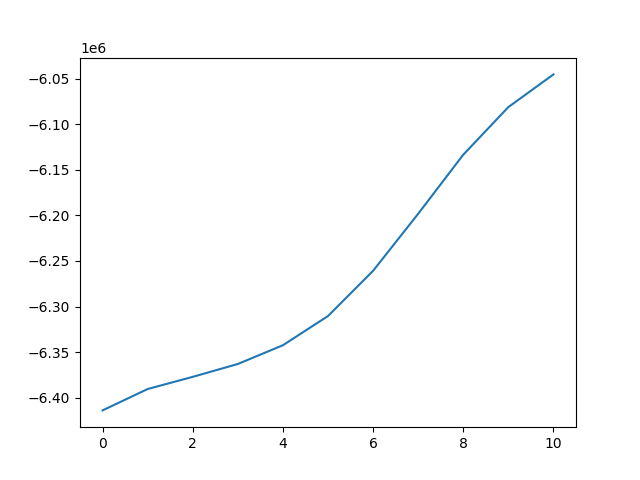
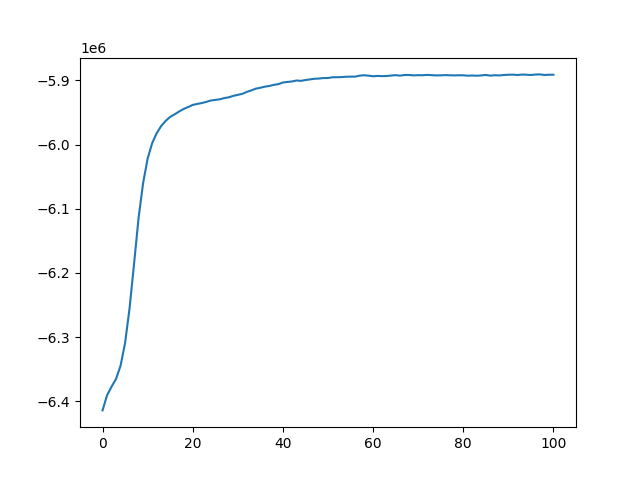
Uptaded figure with 100 iteration run

diff --git a/hw1/q5/LDA.py b/hw1/q5/LDA.py
@@ -4,6 +4,7 @@ import matplotlib.pyplot as plt
 
 from joint_log_lik import joint_log_lik
 from sample_topic_assignment import sample_topic_assignment
+from tqdm.auto import tqdm
 
 
 bagofwords = loadmat('bagofwords_nips.mat')
@@ -21,16 +22,6 @@ def log(s):
 
 def log_separator():
     log('*'*80)
-
-# Exploratory Work
-log_separator()
-log("WS")
-log(WS)
-log_separator()
-log("WO[0] = {}".format(WO[0]))
-
-log_separator()
-
 
 # This script outlines how you might create a MCMC sampler for the LDA model
 
@@ -82,11 +73,11 @@ topic_N = topic_counts.sum(axis=1)
 # times your sampler will iterate.
 alpha = np.ones(n_topics) #* 0.1
 gamma = np.ones(alphabet_size) #* 0.001
-iters = 10
+iters = 100
 
 
 jll = []
-for i in range(iters):
+for i in tqdm(range(iters)):
     jll.append(joint_log_lik(doc_counts,topic_counts,alpha,gamma))
     
     prm = np.random.permutation(words.shape[0])

diff --git a/hw1/q5/sample_topic_assignment.py b/hw1/q5/sample_topic_assignment.py
@@ -48,7 +48,7 @@ def sample_topic_assignment(topic_assignment,
     (n_topics, alphabet_size) = topic_counts.shape
     (n_docs,_) = doc_counts.shape
 
-    for i in tqdm(range(n)):
+    for i in range(n):
         word = words[i]
         topic = topic_assignment[i]
         document = document_assignment[i]
